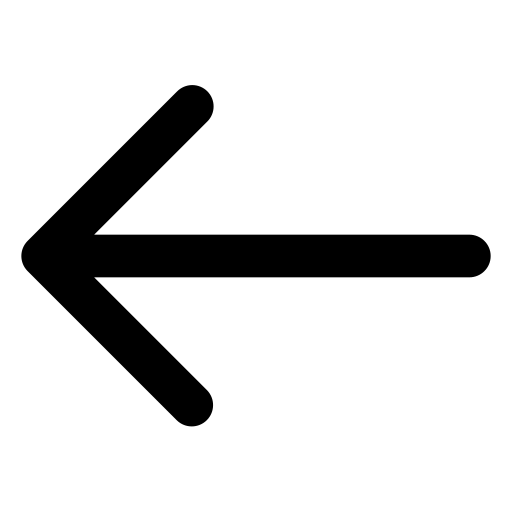
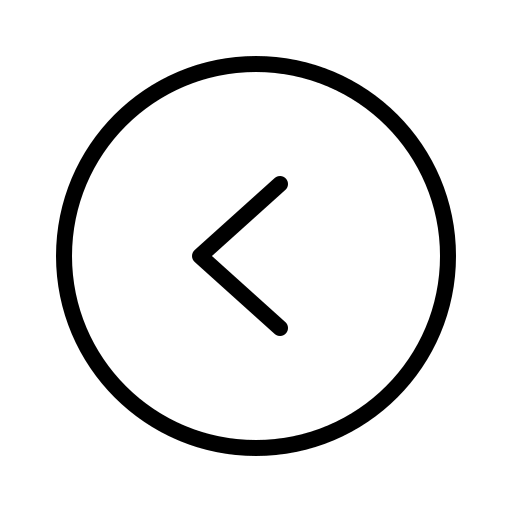
화살표 이미지 변경

Changed region(s): [[0.0312, 0.0938, 0.9688, 0.9062]]

diff --git a/App.js b/App.js
@@ -18,6 +18,7 @@ export const App = () => {
     {label: '연료전지제어개발2팀', value: 'FCCF'},
   ]);
   const week_en = ['sun','mon','tue','wed','thu','fri','sat'];
+
   /*빠밥늦밥 정보 얻기 */
   const getPbnbState = async (TeamData) => {
     if(TeamData !== null){
@@ -36,16 +37,16 @@ export const App = () => {
     }
   };
 
-    /*Team Setting */
-    const onSetTeam = async (TeamSelected) => { //useState 저장 (Team Value, Label) -> Pbnb 상태 얻기
-      if(TeamSelected !== null){
-        await setTrgtTeamData(TeamSelected); //useState TeamTrgtData Setting
-        let res = Teamitems.filter(it => it.value.includes(TeamSelected));
-        await setTrgtTeamLabelData(res[0].label); //useState TeamTrgtLabel Setting
-        await AsyncStorage.setItem("StoragedTeamData", TeamSelected); //Local Storage 저장
-        getPbnbState(TeamSelected);
-      }
+  /*Team Setting */
+  const onSetTeam = (TeamSelected) => { //useState 저장 (Team Value, Label) -> Pbnb 상태 얻기
+    if(TeamSelected !== null){
+      setTrgtTeamData(TeamSelected); //useState TeamTrgtData Setting
+      let res = Teamitems.filter(it => it.value.includes(TeamSelected));
+      setTrgtTeamLabelData(res[0].label); //useState TeamTrgtLabel Setting
+      AsyncStorage.setItem("StoragedTeamData", TeamSelected); //Local Storage 저장
+      getPbnbState(TeamSelected);
     }
+  }
 
   /* Initial Process */
   useEffect( //초기 실행시 2초간 SplashScreen 수행 후 Local Storage에 저장된 Team Data Get
@@ -58,23 +59,17 @@ export const App = () => {
         onSetTeam(storageTeamData);
       }
       else{
-        console.log("Team Information is not saved");
-        
+        console.log("Team Information is not saved");     
       }
       console.log('초기 Team Data Get : '+storageTeamData);
     }
     getTeamData();
-    targetDate= new Date();
-  },
-  []
-);
+  },[]);
 
-useEffect(
+  useEffect(
   ()=>{
-    getPbnbState(TrgtTeamData)
-  },
-  [week_en[TrgtDate.getDay()]]
-)
+      getPbnbState(TrgtTeamData)
+  },[week_en[TrgtDate.getDay()]])
 
   const getScreen = () =>{
     if(ShowSplashScreen === true){
@@ -92,6 +87,7 @@ useEffect(
           Teamitems = {Teamitems} 
           setTeamitems = {setTeamitems}
           setTrgtDate = {setTrgtDate}
+          TrgtDate = {TrgtDate}
           />
         )
       }
@@ -110,5 +106,6 @@ useEffect(
     
   );
 };
+
 
 export default App;
